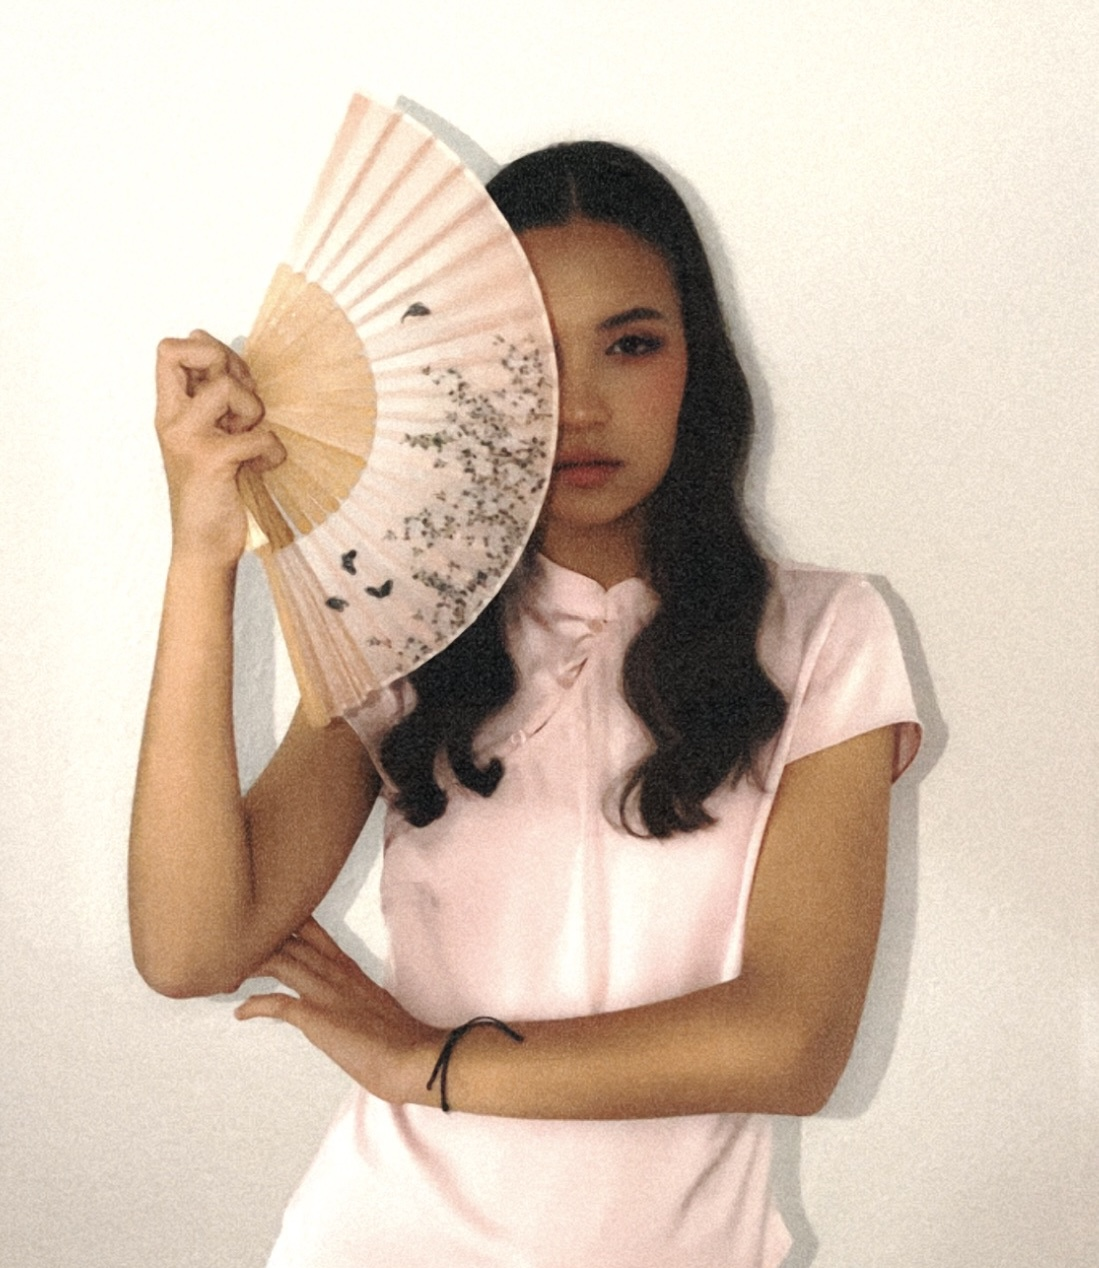
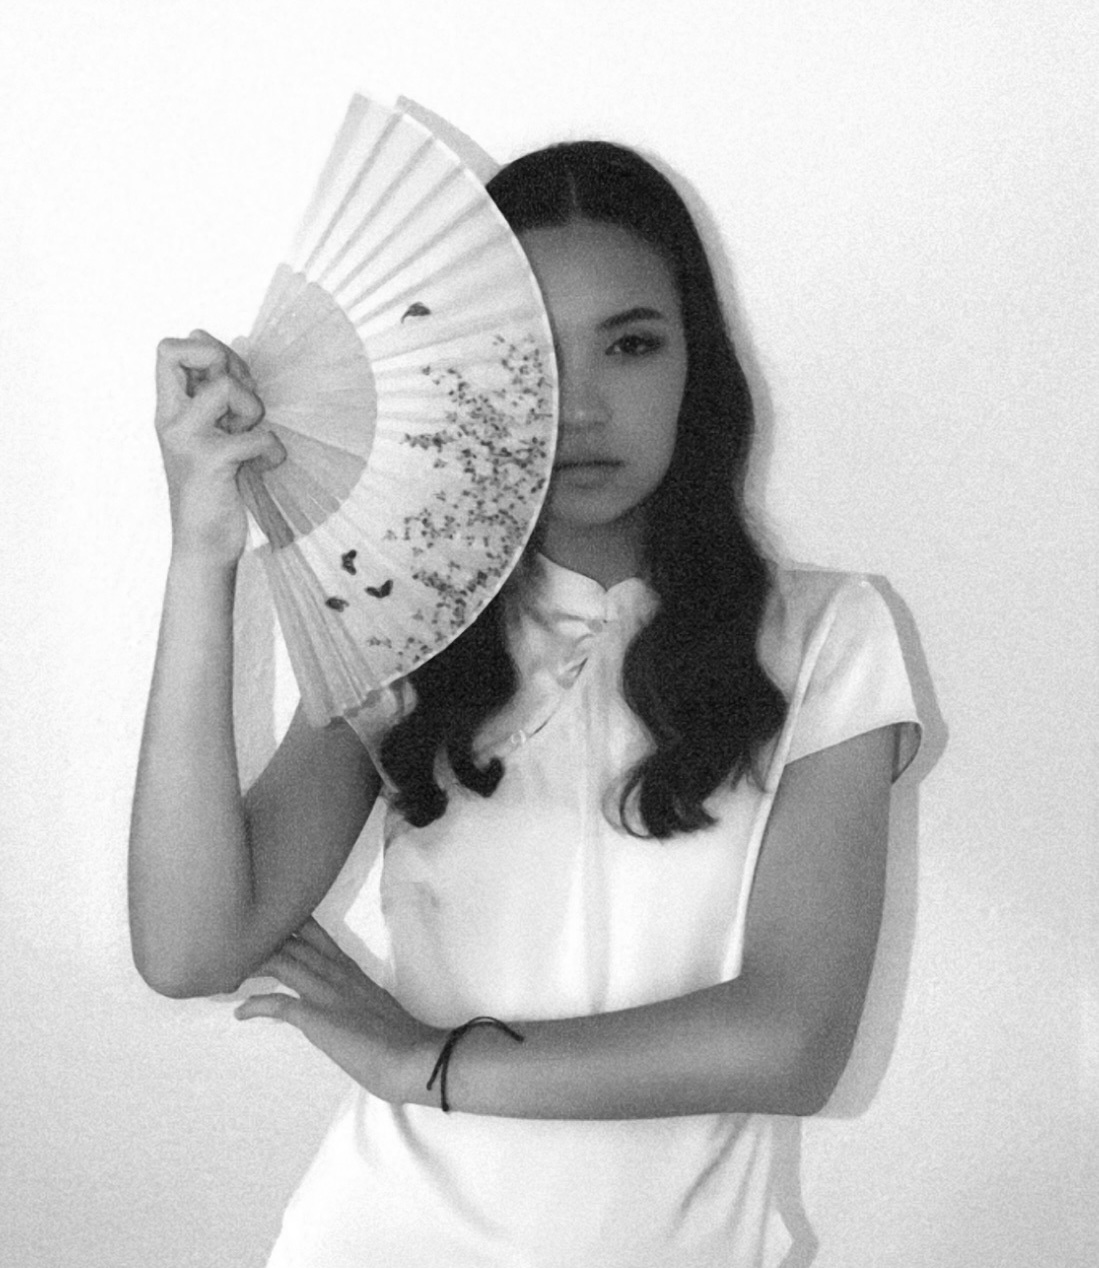
second commit

Changed region(s): [[0.0928, 0.0615, 0.8353, 0.9227]]

diff --git a/src/main.js b/src/main.js
@@ -8,7 +8,7 @@ const SKILLS = [
   { name: "JavaScript / TypeScript", level: 95 },
   { name: "React & React Native", level: 90 },
   { name: "PHP & MySQL", level: 88 },
-  { name: "Python", level: 80 },
+  { name: "Python", level: 90 },
   { name: "HTML & CSS", level: 98 },
   { name: "Node & REST APIs", level: 85 },
 ];
